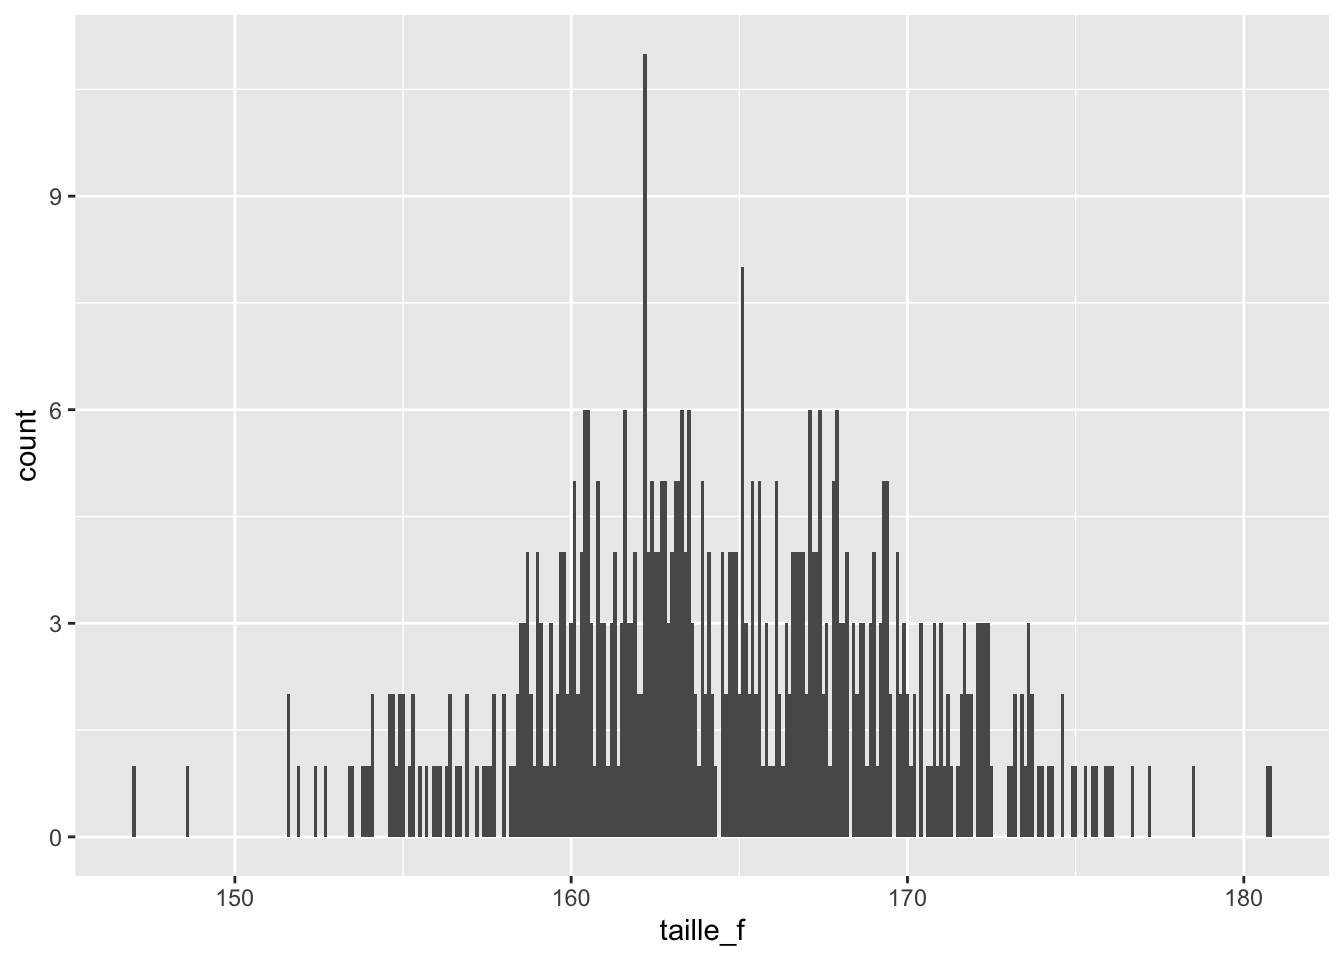
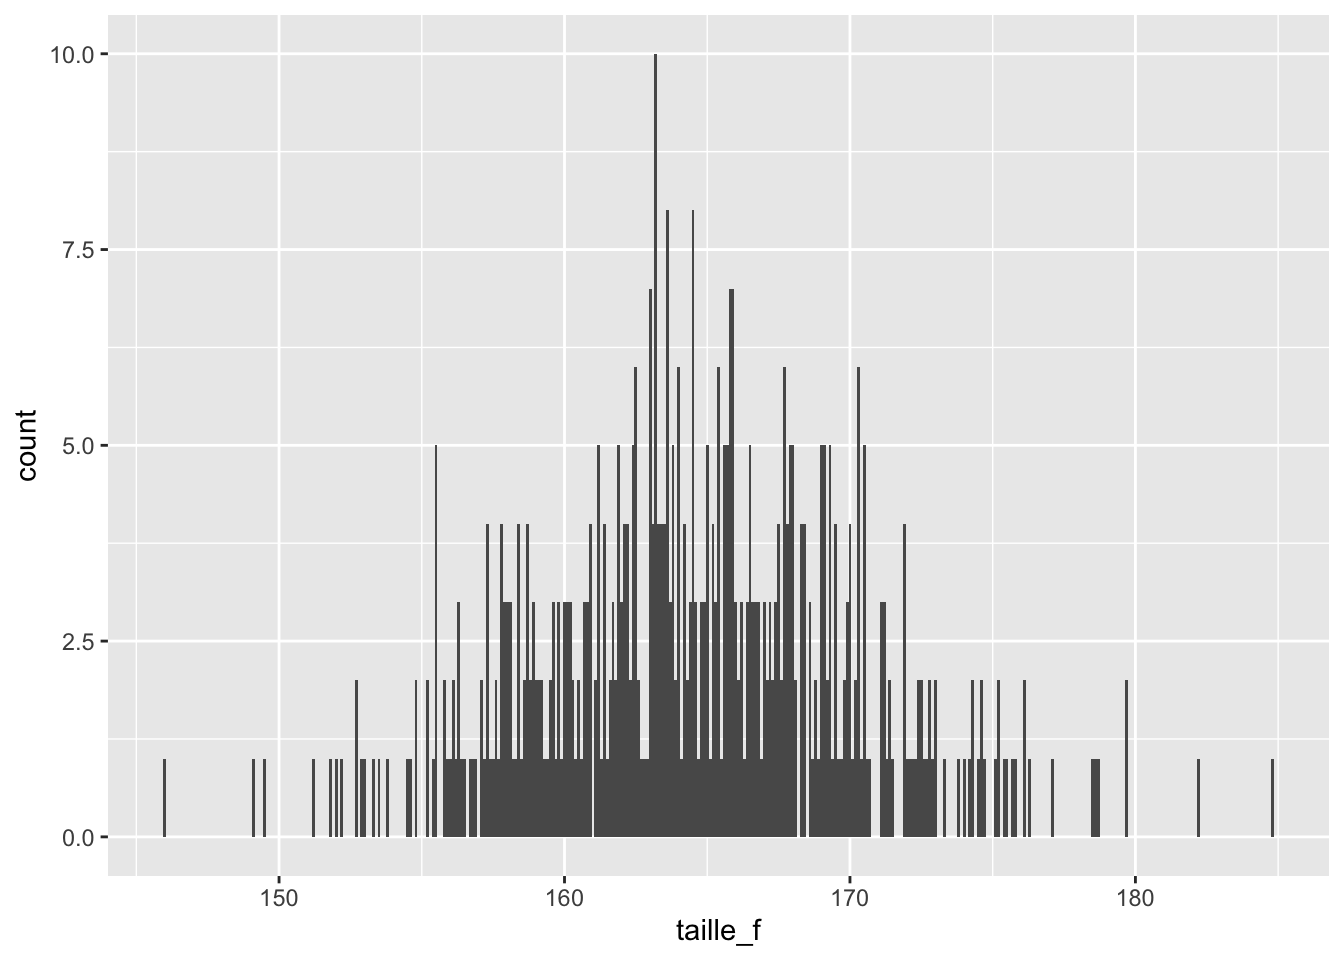
session 10 v3
session 10 v3

diff --git a/index.html b/index.html
@@ -1733,7 +1733,7 @@ Attention
 <span id="cb100-5"><a href="#cb100-5" aria-hidden="true" tabindex="-1"></a></span>
 <span id="cb100-6"><a href="#cb100-6" aria-hidden="true" tabindex="-1"></a><span class="fu">head</span>(taille_f)</span></code><button title="Copy to Clipboard" class="code-copy-button"><i class="bi"></i></button></pre></div>
 <div class="cell-output cell-output-stdout">
-<pre><code>[1] 162.5160 163.6568 170.7210 162.5983 159.1561 167.3483</code></pre>
+<pre><code>[1] 163.4616 162.0823 163.2489 171.8970 152.6610 159.2517</code></pre>
 </div>
 <div class="sourceCode cell-code" id="cb102"><pre class="sourceCode r code-with-copy"><code class="sourceCode r"><span id="cb102-1"><a href="#cb102-1" aria-hidden="true" tabindex="-1"></a><span class="co"># stocker taille_f comme objet de type 'data.frame'</span></span>
 <span id="cb102-2"><a href="#cb102-2" aria-hidden="true" tabindex="-1"></a>taille_f <span class="ot">&lt;-</span> <span class="fu">as.data.frame</span>(taille_f)</span>
@@ -3522,20 +3522,22 @@ Solution
 <span id="cb195-2"><a href="#cb195-2" aria-hidden="true" tabindex="-1"></a>    <span class="fu">select</span>(note_ecole, note_uni, genre) <span class="sc">%&gt;%</span></span>
 <span id="cb195-3"><a href="#cb195-3" aria-hidden="true" tabindex="-1"></a>    <span class="fu">group_by</span>(genre) <span class="sc">%&gt;%</span></span>
 <span id="cb195-4"><a href="#cb195-4" aria-hidden="true" tabindex="-1"></a>    <span class="fu">filter</span>(note_ecole <span class="sc">&gt;</span> <span class="fl">3.99</span>, note_uni <span class="sc">&gt;</span> <span class="fl">0.99</span>) <span class="sc">%&gt;%</span></span>
-<span id="cb195-5"><a href="#cb195-5" aria-hidden="true" tabindex="-1"></a>    <span class="fu">summarize</span>(<span class="at">note_ecole_moyenne =</span> <span class="fu">mean</span>(note_ecole), <span class="at">note_uni_moyenne =</span> <span class="fu">mean</span>(note_uni))</span></code><button title="Copy to Clipboard" class="code-copy-button"><i class="bi"></i></button></pre></div>
+<span id="cb195-5"><a href="#cb195-5" aria-hidden="true" tabindex="-1"></a>    <span class="fu">summarize</span>(<span class="at">n =</span> <span class="fu">n</span>(), <span class="at">note_ecole_moyenne =</span> <span class="fu">mean</span>(note_ecole),</span>
+<span id="cb195-6"><a href="#cb195-6" aria-hidden="true" tabindex="-1"></a>        <span class="at">note_uni_moyenne =</span> <span class="fu">mean</span>(note_uni))</span></code><button title="Copy to Clipboard" class="code-copy-button"><i class="bi"></i></button></pre></div>
 <div class="cell-output cell-output-stdout">
-<pre><code># A tibble: 3 × 3
-  genre note_ecole_moyenne note_uni_moyenne
-  &lt;fct&gt;              &lt;dbl&gt;            &lt;dbl&gt;
-1 Autre               4.5              4.75
-2 Femme               4.90             4.88
-3 Homme               4.59             4.84</code></pre>
+<pre><code># A tibble: 3 × 4
+  genre     n note_ecole_moyenne note_uni_moyenne
+  &lt;fct&gt; &lt;int&gt;              &lt;dbl&gt;            &lt;dbl&gt;
+1 Autre     2               4.5              4.75
+2 Femme    53               4.90             4.88
+3 Homme    16               4.59             4.84</code></pre>
 </div>
-<div class="sourceCode cell-code" id="cb197"><pre class="sourceCode r code-with-copy"><code class="sourceCode r"><span id="cb197-1"><a href="#cb197-1" aria-hidden="true" tabindex="-1"></a>reponses_socio <span class="sc">%&gt;%</span></span>
-<span id="cb197-2"><a href="#cb197-2" aria-hidden="true" tabindex="-1"></a>    <span class="fu">select</span>(note_ecole, note_uni) <span class="sc">%&gt;%</span></span>
-<span id="cb197-3"><a href="#cb197-3" aria-hidden="true" tabindex="-1"></a>    <span class="fu">filter</span>(note_ecole <span class="sc">&gt;</span> <span class="fl">3.99</span>, note_uni <span class="sc">&gt;</span> <span class="fl">0.99</span>) <span class="sc">%&gt;%</span></span>
-<span id="cb197-4"><a href="#cb197-4" aria-hidden="true" tabindex="-1"></a>    <span class="fu">ggplot</span>(<span class="fu">aes</span>(<span class="at">x =</span> note_uni, <span class="at">y =</span> note_ecole)) <span class="sc">+</span> <span class="fu">geom_point</span>() <span class="sc">+</span></span>
-<span id="cb197-5"><a href="#cb197-5" aria-hidden="true" tabindex="-1"></a>    <span class="fu">geom_smooth</span>(<span class="at">method =</span> <span class="st">"lm"</span>)</span></code><button title="Copy to Clipboard" class="code-copy-button"><i class="bi"></i></button></pre></div>
+<div class="sourceCode cell-code" id="cb197"><pre class="sourceCode r code-with-copy"><code class="sourceCode r"><span id="cb197-1"><a href="#cb197-1" aria-hidden="true" tabindex="-1"></a><span class="co"># Visualisation de la relation entre note_ecole et note_uni</span></span>
+<span id="cb197-2"><a href="#cb197-2" aria-hidden="true" tabindex="-1"></a>reponses_socio <span class="sc">%&gt;%</span></span>
+<span id="cb197-3"><a href="#cb197-3" aria-hidden="true" tabindex="-1"></a>    <span class="fu">select</span>(note_ecole, note_uni) <span class="sc">%&gt;%</span></span>
+<span id="cb197-4"><a href="#cb197-4" aria-hidden="true" tabindex="-1"></a>    <span class="fu">filter</span>(note_ecole <span class="sc">&gt;</span> <span class="fl">3.99</span>, note_uni <span class="sc">&gt;</span> <span class="fl">0.99</span>) <span class="sc">%&gt;%</span></span>
+<span id="cb197-5"><a href="#cb197-5" aria-hidden="true" tabindex="-1"></a>    <span class="fu">ggplot</span>(<span class="fu">aes</span>(<span class="at">x =</span> note_uni, <span class="at">y =</span> note_ecole)) <span class="sc">+</span> <span class="fu">geom_point</span>() <span class="sc">+</span></span>
+<span id="cb197-6"><a href="#cb197-6" aria-hidden="true" tabindex="-1"></a>    <span class="fu">geom_smooth</span>(<span class="at">method =</span> <span class="st">"lm"</span>)</span></code><button title="Copy to Clipboard" class="code-copy-button"><i class="bi"></i></button></pre></div>
 <div class="cell-output cell-output-stderr">
 <pre><code>`geom_smooth()` using formula = 'y ~ x'</code></pre>
 </div>
